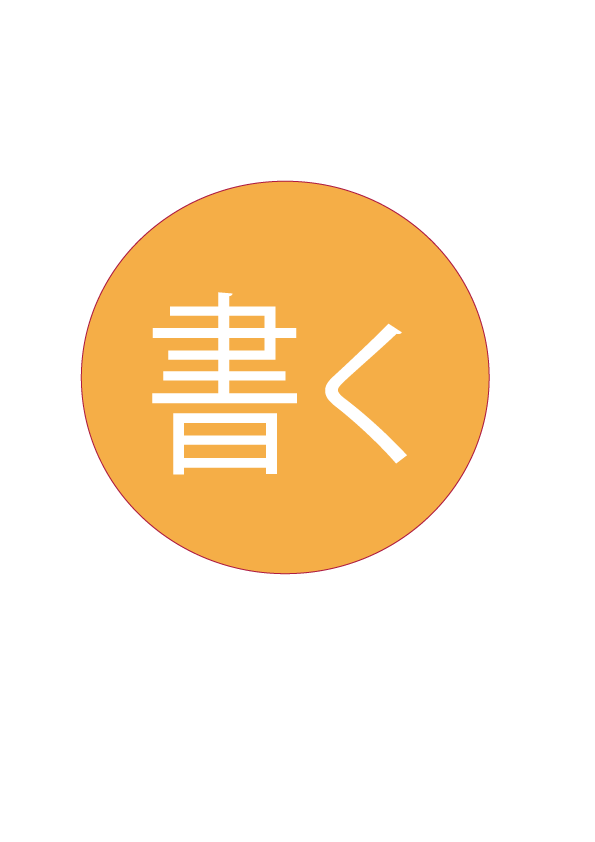
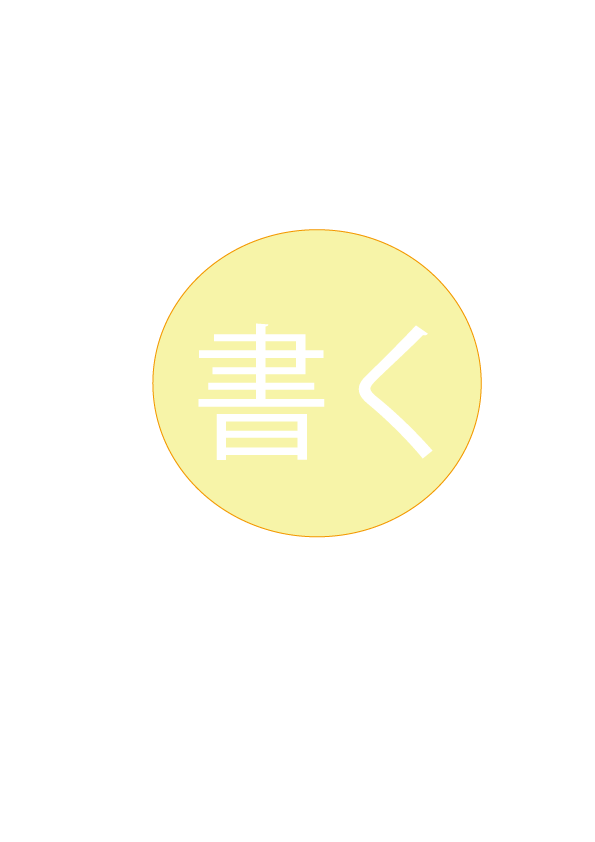
真ん中に寄せました！

Changed region(s): [[0.121, 0.2162, 0.8471, 0.6793]]

diff --git a/app/assets/stylesheets/application.css b/app/assets/stylesheets/application.css
@@ -26,6 +26,7 @@
      background-origin: content-box;
      background-clip: content-box;
      background-attachment:local;
+     margin-left: -100px;
      }
 
      texxtarea {
@@ -59,16 +60,36 @@
 
 
      .write_1 {
-      margin-left: 100px;
+      margin-top: 150px;
+      margin-left: 250px;
       margin-right: 200px;
       float: left;
      }
 
      .show_1 {
-      
+      margin-top: 150px;
       float: left;
 
      }
+
+     #middle{
+      position: absolute;
+      top: 50%;
+      left: 50%;
+      transform: translate(-50%, -50%);
+     
+      padding: 150px 150px;
+      background: rgba(255, 255, 255, );
+      color: #fff;
+      text-align: center;
+      width: 300px;
+    }
+
+
+
+
+
+
      body {
         background: rgb(223, 146, 59,0.5);
         color: #333;
